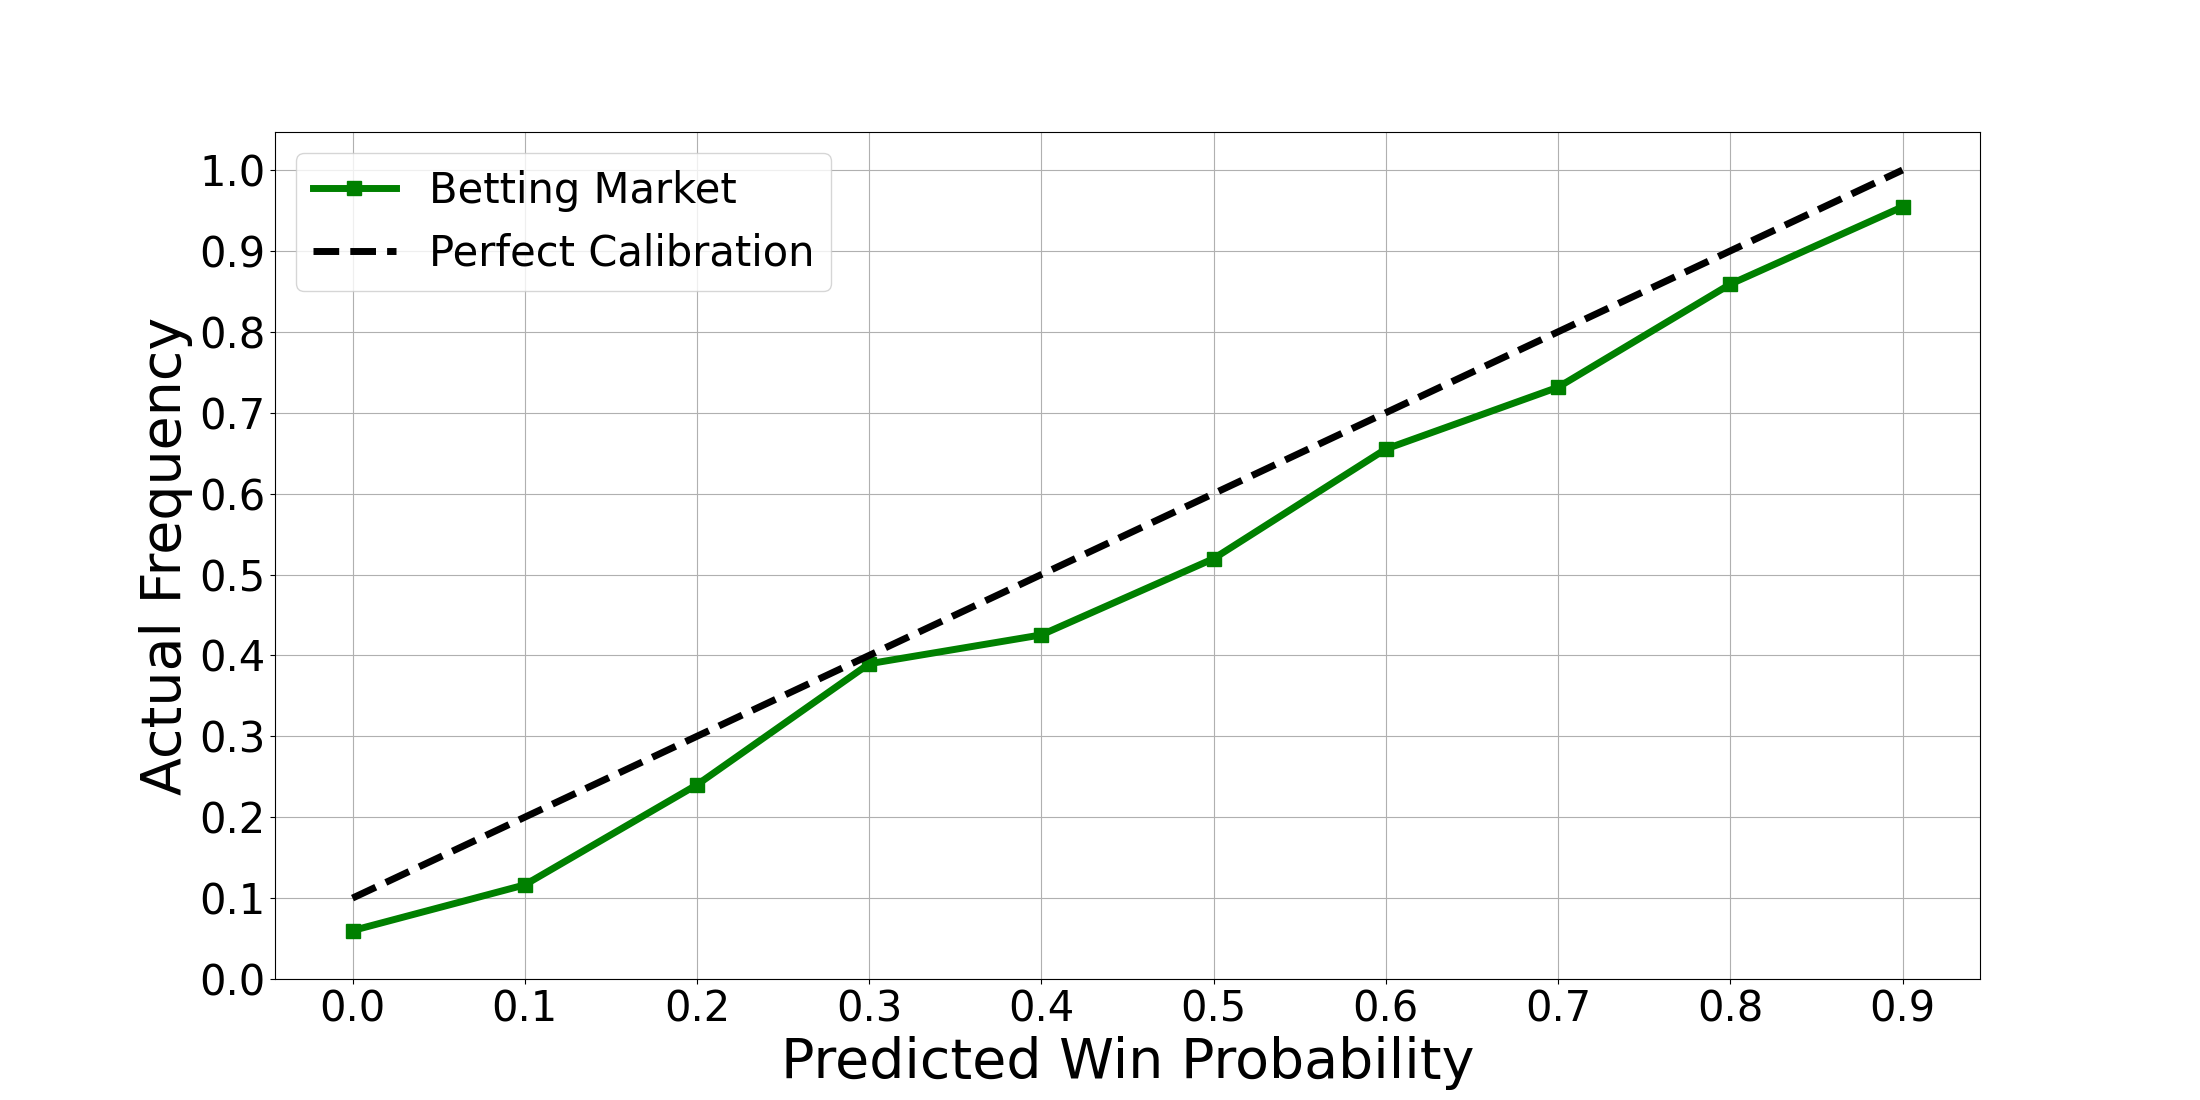
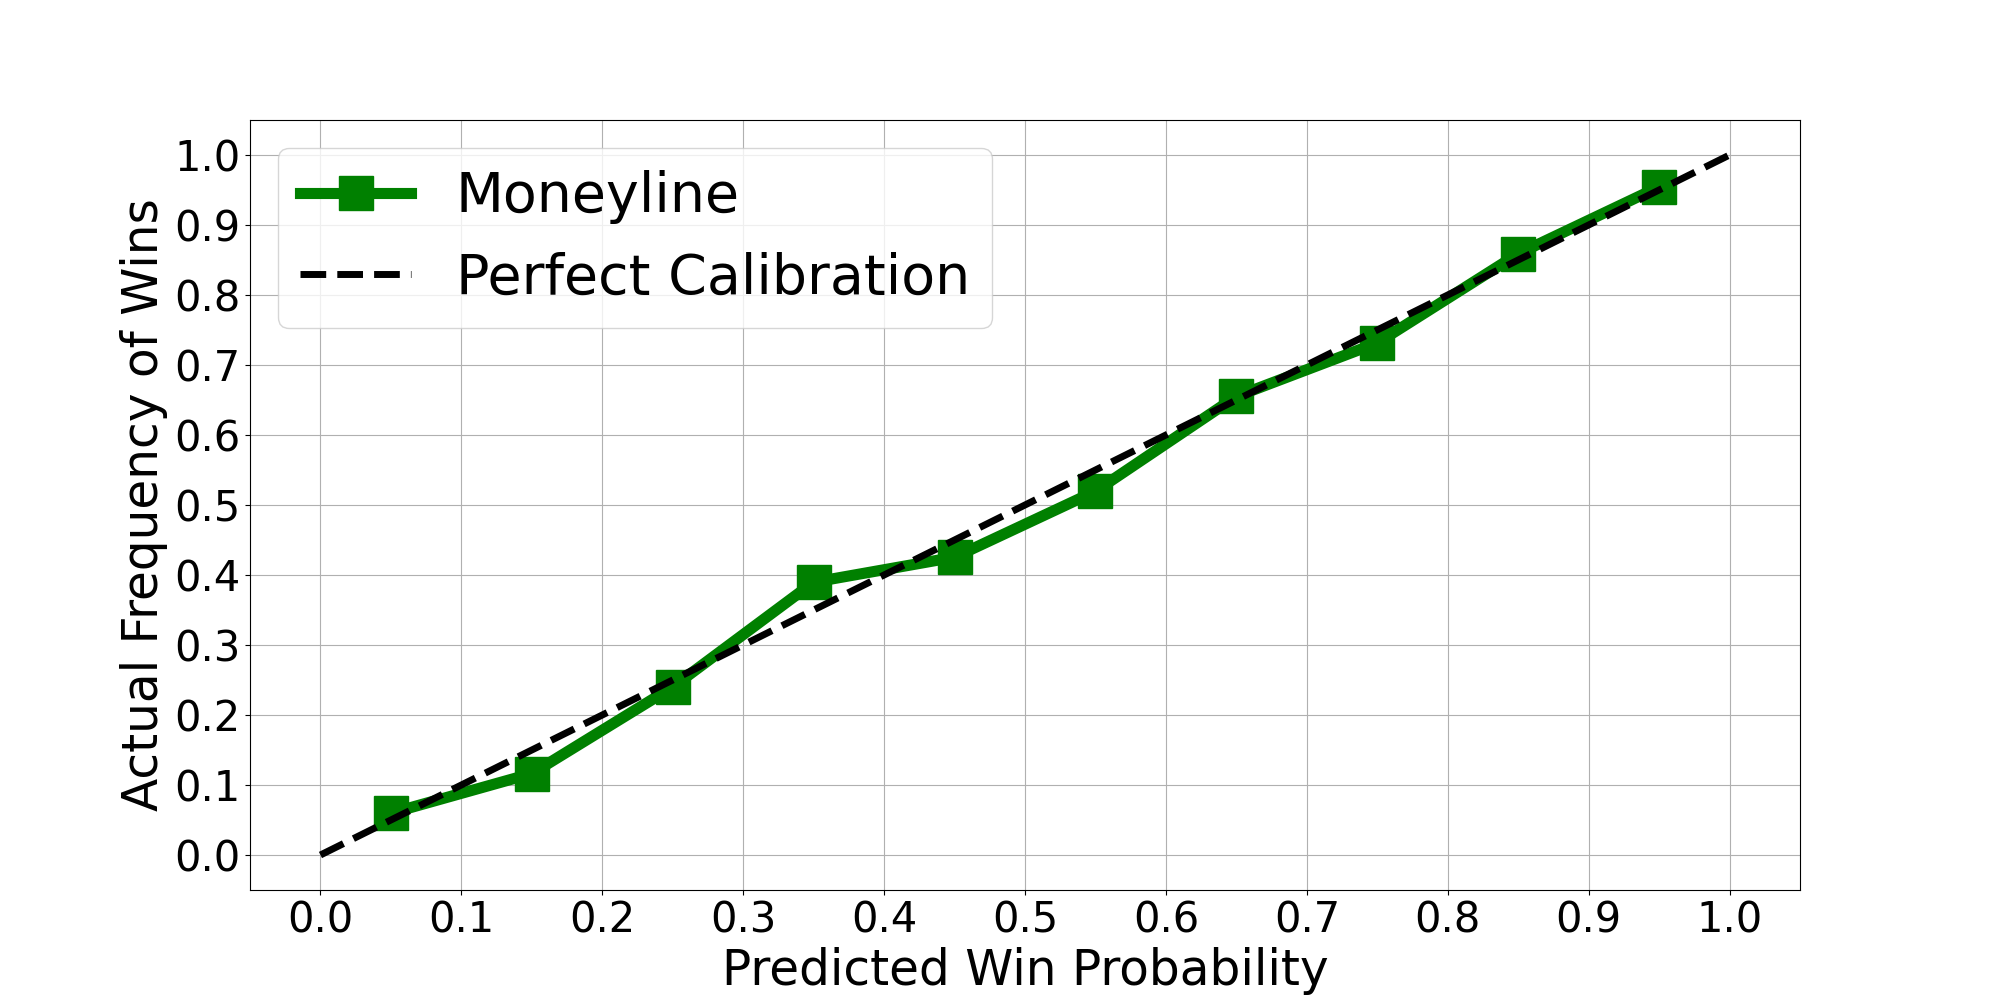
calibration

diff --git a/calibration_plot/src/calibration.py b/calibration_plot/src/calibration.py
@@ -12,15 +12,20 @@ df['MoneylineProb_group'] = pd.cut(df["MoneylineProb"], bins=bins, labels=[f"{i 
 grouped_P_Homewins_Elo = df.groupby('P_Homewins_Elo_group')['result'].mean().reset_index()
 grouped_MoneylineProb = df.groupby('MoneylineProb_group')['result'].mean().reset_index()
 
-plt.figure(figsize=(22, 11))
-plt.plot(range(10), grouped_MoneylineProb['result'], marker='s', linestyle='-', color='g', label='Betting Market', linewidth=5, markersize=10)
-plt.plot(range(10), [(i + 1) / 10 for i in range(10)], linestyle='--', color='k', label='Perfect Calibration', linewidth=5, markersize=10)
-plt.xlabel('Predicted Win Probability', fontsize=40)
-plt.ylabel('Actual Frequency', fontsize=40)
-plt.legend(fontsize=30)
-plt.xticks(range(10), [f'{i * 0.1:.1f}' for i in range(10)], fontsize=30) 
+
+plt.figure(figsize=(20,10))
+l = [0.05, 0.15, 0.25, 0.35, 0.45, 0.55, 0.65, 0.75, 0.85, 0.95]
+l2 = [0, 0.1, 0.2,0.3, 0.4, 0.5, 0.6, 0.7, 0.8, 0.9, 1]
+# plt.plot(l, grouped_P_Homewins_Elo['result'], marker='o', linestyle='-', color='b', label='Elo Rating')
+plt.plot(l, grouped_MoneylineProb['result'], marker='s', linestyle='-', color='g', label='Moneyline', linewidth=8, markersize=25)
+plt.plot(l2, l2, linestyle='--', color='k', label='Perfect Calibration', linewidth=5)
+plt.xlabel('Predicted Win Probability', fontsize=35)
+plt.ylabel('Actual Frequency of Wins', fontsize=35)
+plt.legend(fontsize=40, loc = 'upper left')
+#plt.xticks(rang, [f'{i * 0.1:.1f}' for i in range(10)]) 
+plt.xticks([i * 0.1 for i in range(11)], [f'{i * 0.1:.1f}' for i in range(11)], fontsize=30)
 plt.yticks([i * 0.1 for i in range(11)], [f'{i * 0.1:.1f}' for i in range(11)], fontsize=30) 
 plt.grid(True)
 
+
 plt.savefig("calibration_plot/calibration.png")
-plt.show()
